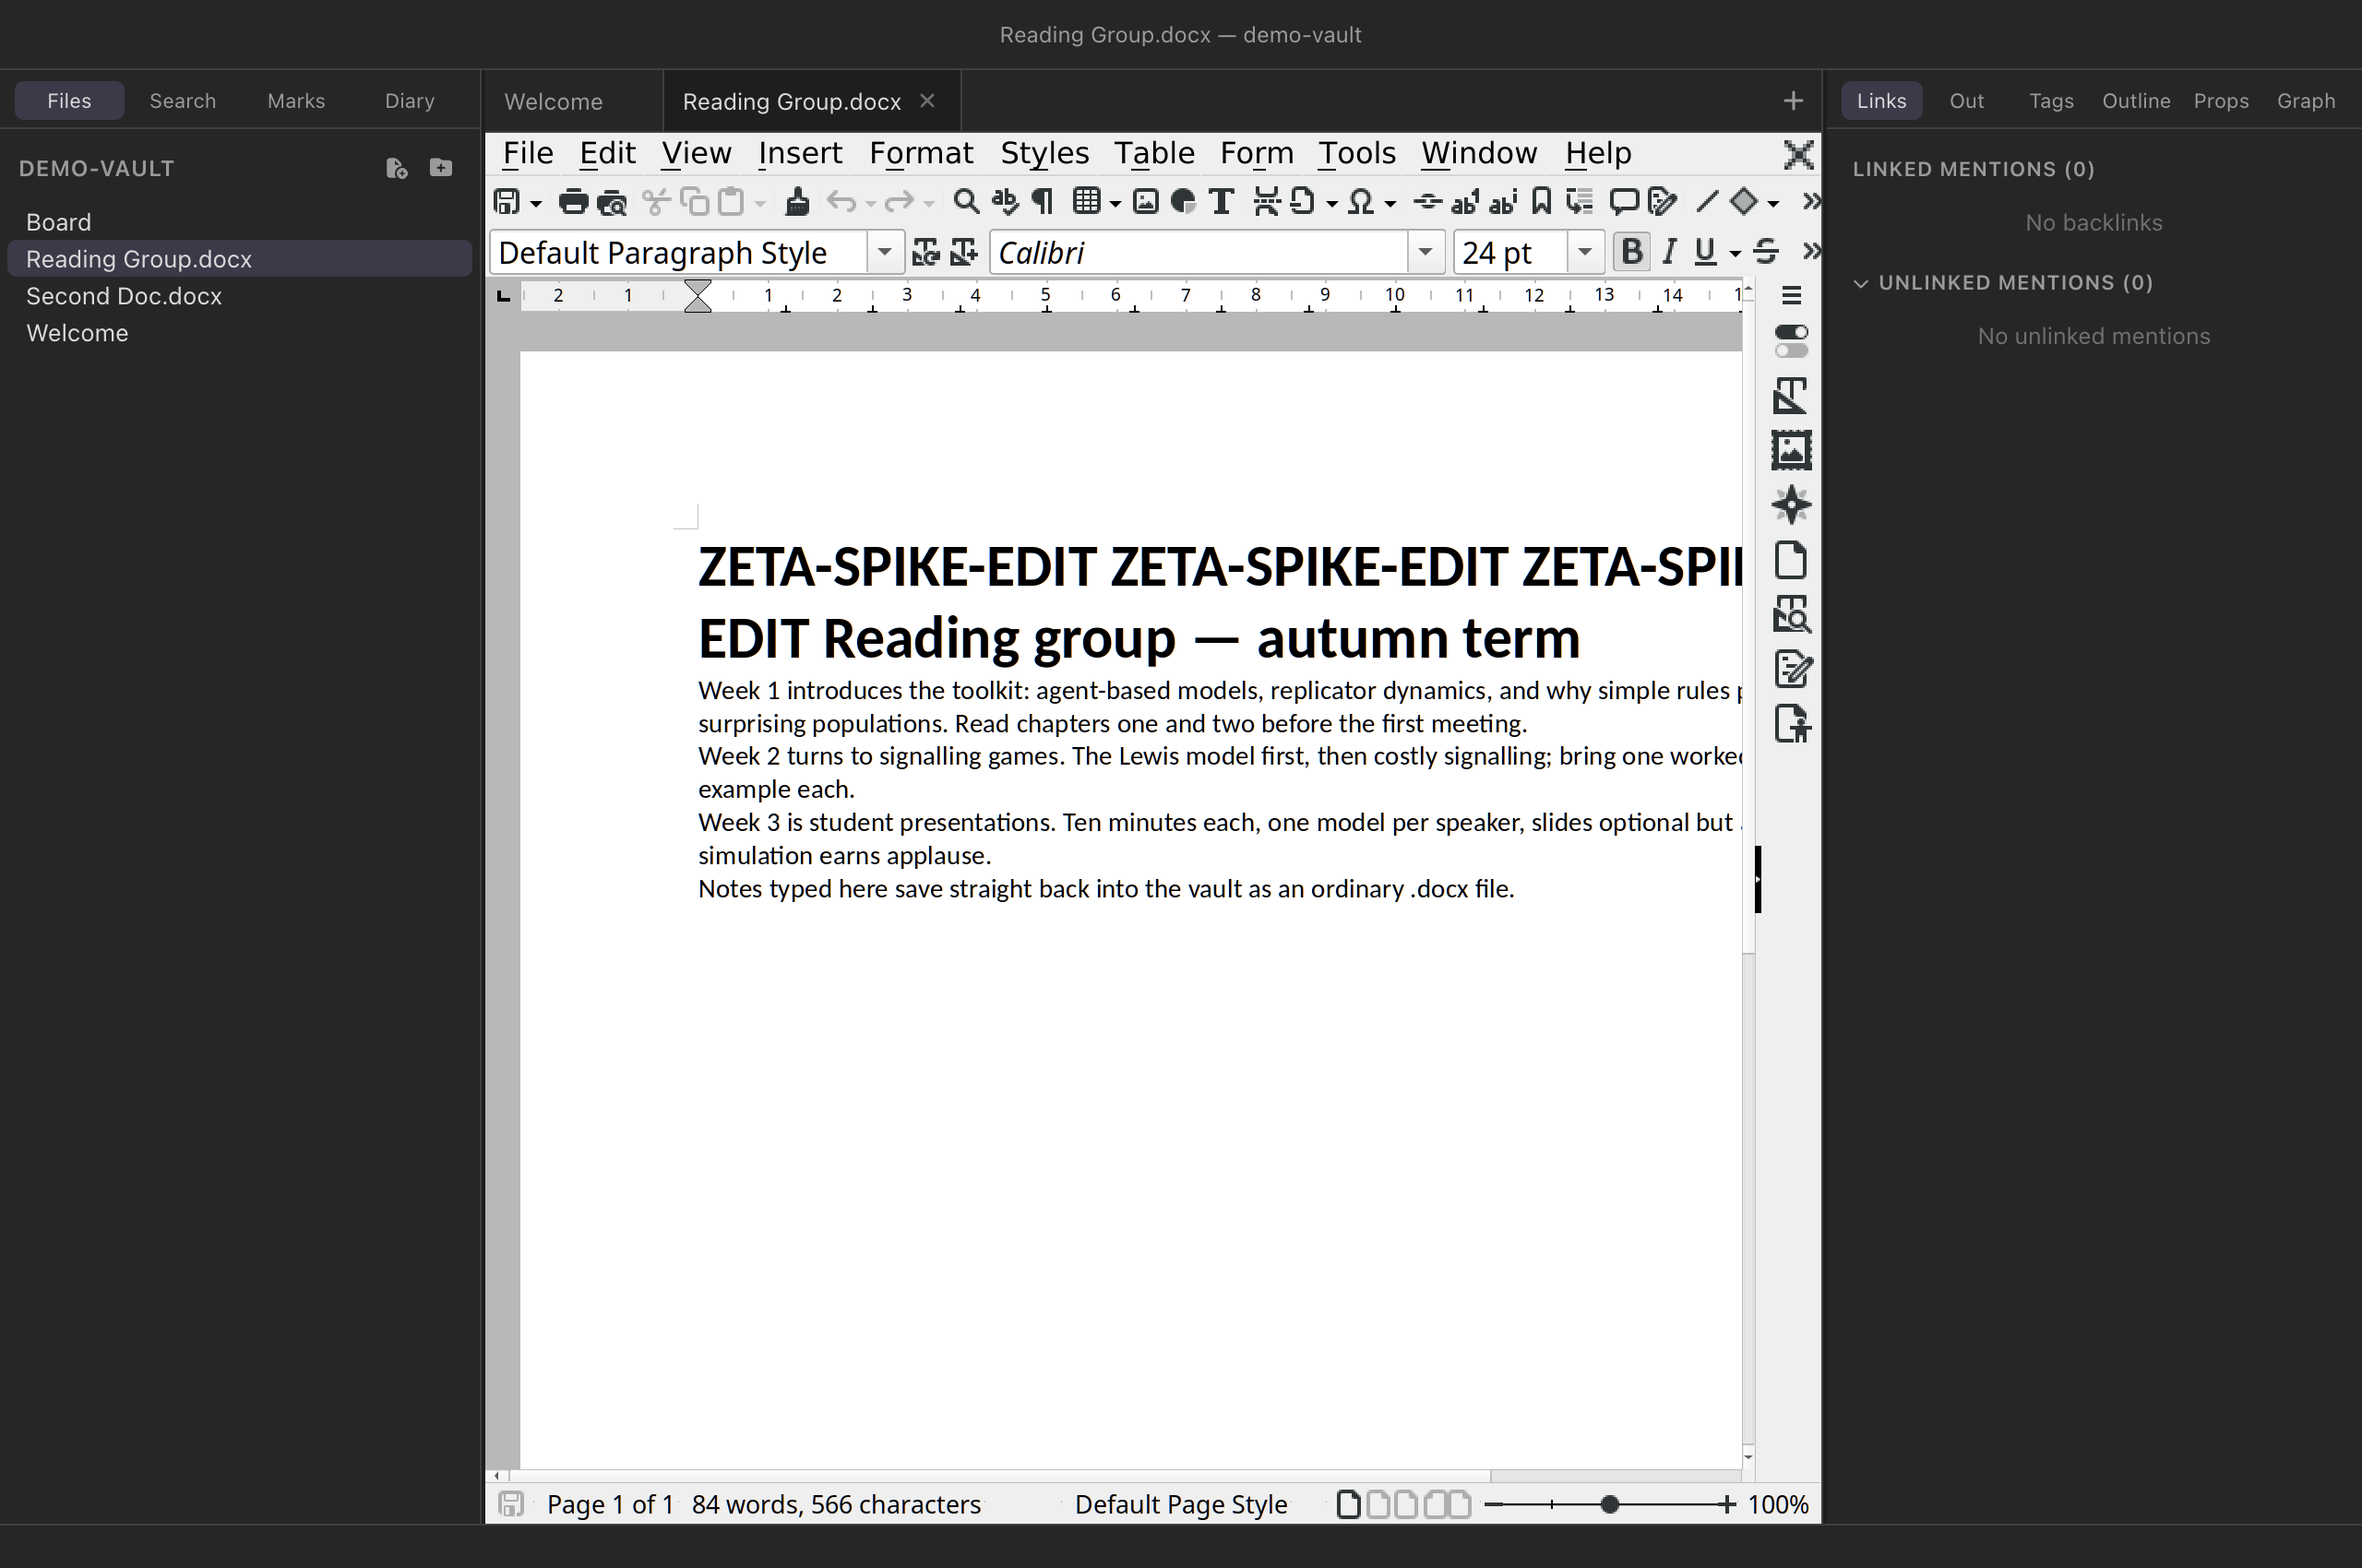
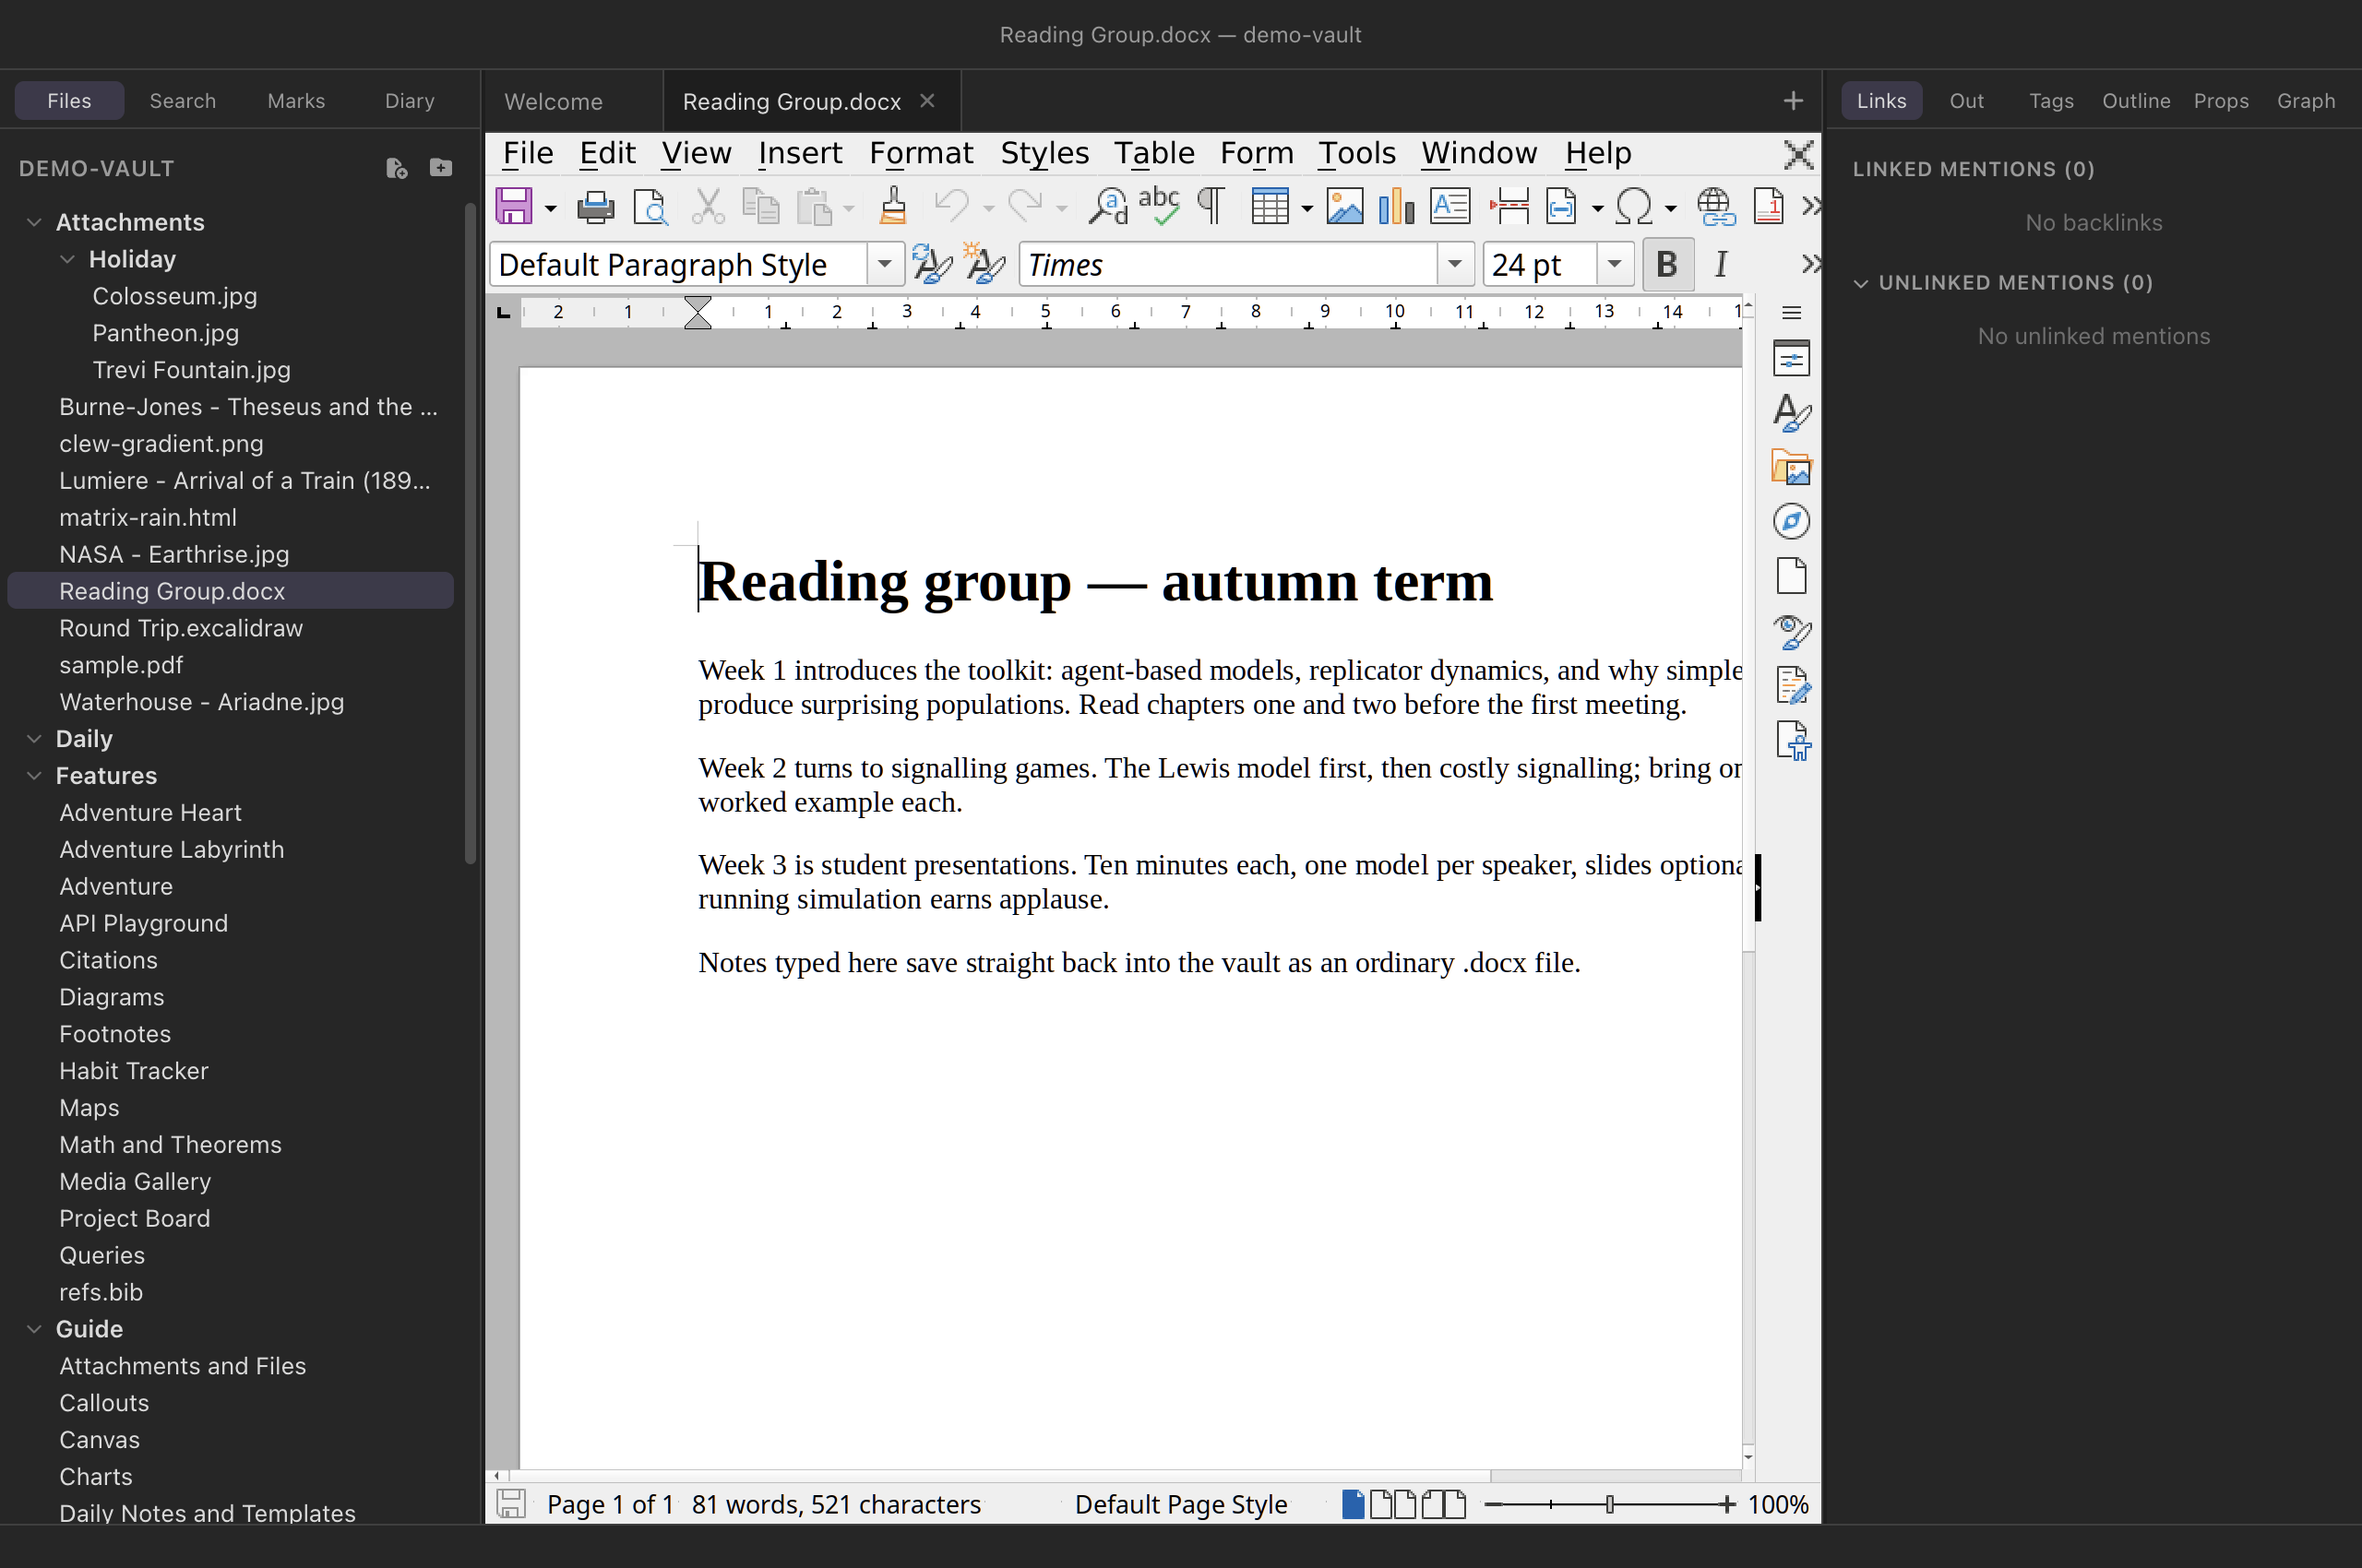
Manual: the desktop 0.11 features illustrated, and the reading face named
Ten desktop screenshots, each from a committed scenario in Clew-app's
smoke/manual/ over a scratch copy of the demo vault, 2560×1700 dark: the
welcome window (getting-started), the quiet and bare embeds
(links-and-embeds), the ```latex and ```tex fences typeset in the page
and a split with the TeX-highlighted fence beside its rendering
(diagrams), folder-path wikilink completion (editing), the export
commands in the palette (export), the plugin list with a global row
(plugins), and a .docx thumbnail embed (office-documents). Two retaken:
office-tab.png, whose 09-01 shot showed the Sifr icons Clew-app reverted
in 9ef4375, and welcome.jpg in both places, which showed an older vault
tree at 1×.

theming.html gains the typeface paragraph — Avenir Next in editor and
rendered page alike, the humanist fallback tail, the --clew-editor-font
token — the half of the old open item that was genuinely missing (the
reading-mode return trip had been in reading-mode.html all along). A
stray empty <p> before editing.html's wikilink example is gone.

diff --git a/site/manual/diagrams.html b/site/manual/diagrams.html
@@ -343,6 +343,14 @@ TikZ body; on a complete document they mean nothing and are ignored.
 ```</code></pre>
 </div>
 
+<figure class="shot">
+	<img src="images/figures-latex.png" alt="The demo vault's Diagrams note in reading mode: Maxwell's equations as a numbered align environment typeset from a latex fence, and below it a line of plain TeX with a displayed sum">
+	<figcaption>The Diagrams note's LaTeX section: an <code>align</code> of
+	Maxwell's equations from a <code>```latex</code> fence, typeset by
+	LuaLaTeX in the page, and a line of plain TeX from a
+	<code>```tex</code> fence under it.</figcaption>
+</figure>
+
 <p>
 LuaTeX is the engine for both fences — LuaLaTeX for
 <code>```latex</code>, plain LuaTeX for <code>```tex</code> — which
@@ -390,6 +398,13 @@ grammars — TeX for <code>```tikz</code>, <code>```latex</code> and
 figure's code reads the same on both sides of a split; see
 <a href="editing.html#highlighting">Dialect-aware highlighting</a>.
 </p>
+
+<figure class="shot">
+	<img src="images/fence-split.png" alt="The Diagrams note split in two: on the left the source pane with a tikz both fence highlighted as TeX, on the right the same block in reading mode showing the code block and then the typeset triangle">
+	<figcaption>The Diagrams note in a split: the <code>```tikz both</code>
+	fence in source mode, tokenized as TeX, and the same block in reading
+	mode — its code, then the figure it draws.</figcaption>
+</figure>
 
 <h2 id="caching">Typesetting and caching</h2>
 

diff --git a/site/manual/links-and-embeds.html b/site/manual/links-and-embeds.html
@@ -253,6 +253,15 @@ the source. Use it for the composed document: a syllabus assembled from
 week notes, a paper whose sections live in their own files.
 </p>
 
+<figure class="shot">
+	<img src="images/embed-frames.png" alt="The demo vault's Links and Embeds guide in reading mode: one section of the Reading Mode note embedded twice — first with quiet, drawn as an accent stripe and a title, then with bare, indistinguishable from the surrounding prose">
+	<figcaption>The demo vault's <em>Links and Embeds</em> guide: the same
+	section of another note embedded twice — <code>quiet</code>, the stripe
+	and the title without the panel, and <code>bare</code>, sitting in the
+	prose as if it had been typed there. The folded form is the figure
+	above.</figcaption>
+</figure>
+
 <p>
 The keywords combine with the fold and with a title, in any order, so
 <code>![[Week 3|Reading list|quiet|collapsed]]</code> is a folded, quietly

diff --git a/site/manual/theming.html b/site/manual/theming.html
@@ -123,6 +123,19 @@ adapt too — in the dark theme, map tiles are filtered to match unless a
 map opts out.
 </p>
 
+<p>
+<strong>The typeface</strong> is part of the theme as well, and it is
+the same in both: notes are set in <em>Avenir Next</em>, in the editor
+and on the rendered page alike. Avenir Next ships with macOS and cannot
+be bundled, so on other platforms the stack falls through to a humanist
+neighbour — Avenir, then Segoe UI on Windows, Cantarell on GNOME, then
+the system font — rather than dropping to a bare sans-serif. The editor
+reads it from <code>--clew-editor-font</code>, so a
+<a href="#snippets">CSS snippet</a> can put your own face there; the
+rendered page has its own copy of the same stack, and changing that is
+a vault script's job (see <a href="#app-vs-notes">below</a>).
+</p>
+
 <h2 id="tokens">The theming surface: custom properties</h2>
 
 <p>

diff --git a/site/manual/plugins.html b/site/manual/plugins.html
@@ -164,6 +164,13 @@ the more specific copy is the one you meant, which is how a vault pins
 its own version of a plugin you also use elsewhere.
 </p>
 
+<figure class="shot">
+	<img src="images/plugins-settings.png" alt="Clew's Settings tab scrolled to the This vault section: a Global plugins row with an Open global plugin folder button, then four plugin rows with checkboxes, three marked this vault and one marked global">
+	<figcaption>Settings&nbsp;→&nbsp;This vault over the demo vault, with a
+	globally installed plugin listed beside the vault's own three. Each
+	row's checkbox enables that plugin here, and only here.</figcaption>
+</figure>
+
 <div class="callout tip">
 	<span class="callout-title">Which scope for which plugin?</span>
 	Put it in the <strong>vault</strong> when the plugin is part of what

diff --git a/site/manual/office-documents.html b/site/manual/office-documents.html
@@ -177,6 +177,13 @@ document node shows by default, and the node's context menu flips it to
 <em>Live</em>.
 </p>
 
+<figure class="shot">
+	<img src="images/office-embed.png" alt="A note in reading mode embedding a Word document as a thumbnail: a rendered picture of the document's first page under a title bar naming the file">
+	<figcaption>A <code>.docx</code> embedded in a note the plain way: a
+	thumbnail, drawn once by a LibreOffice working offstage and cached in
+	the vault. Clicking it opens the document in an office tab.</figcaption>
+</figure>
+
 <p>
 The <strong>live</strong> embed is the full editor — the document
 editing in place, in the middle of your note. Every live embed boots

diff --git a/site/manual/getting-started.html b/site/manual/getting-started.html
@@ -148,6 +148,13 @@ two, the welcome window also lists your recent vaults, so a later fresh
 window is one click from anywhere you have been.
 </p>
 
+<figure class="shot">
+	<img src="images/welcome-screen.png" alt="Clew's welcome window on a first launch: the Clew wordmark and tagline, an Open vault button, and beneath it Create new vault and Explore the demo vault">
+	<figcaption>The welcome window on a first launch. <em>Explore the demo
+	vault</em> copies the demo vault into your Documents folder and opens
+	it.</figcaption>
+</figure>
+
 <p>
 The restore set is exactly the windows you left open. Closing a
 vault's window by hand takes that vault out of the set — Clew will not

diff --git a/site/manual/export.html b/site/manual/export.html
@@ -79,6 +79,13 @@ like every command they can be given hotkeys in the
 the active note's tab and need a note to be open.
 </p>
 
+<figure class="shot">
+	<img src="images/palette-export.png" alt="The command palette open over the Export guide note, filtered to export, listing the four note exports and the vault-as-website export">
+	<figcaption>The command palette filtered to <em>export</em>: the four
+	note exports and <em>Export vault as website…</em>, each of them
+	hotkey-assignable like any other command.</figcaption>
+</figure>
+
 <p>
 Each command opens a save dialog. The suggested destination is the vault
 root, with the note's own name and the right extension

diff --git a/site/manual/editing.html b/site/manual/editing.html
@@ -180,7 +180,12 @@ spaces are ordinary text here; nothing needs escaping.
 	Obsidian-shaped form and lets shortest-path resolution do its work.
 </div>
 
-<p>
+<figure class="shot">
+	<img src="images/wikilink-completion.png" alt="The editor in source mode with a completion popup open after typing two brackets and Guide slash Link, offering Links and Embeds from the Guide folder">
+	<figcaption>Typing <code>[[Guide/Link</code> finds <em>Links and
+	Embeds</em> by the folder it lives in. Choosing it inserts the whole
+	vault path, because the folder was part of the query.</figcaption>
+</figure>
 
 <div class="example">
 	<p class="example-label">You write</p>
